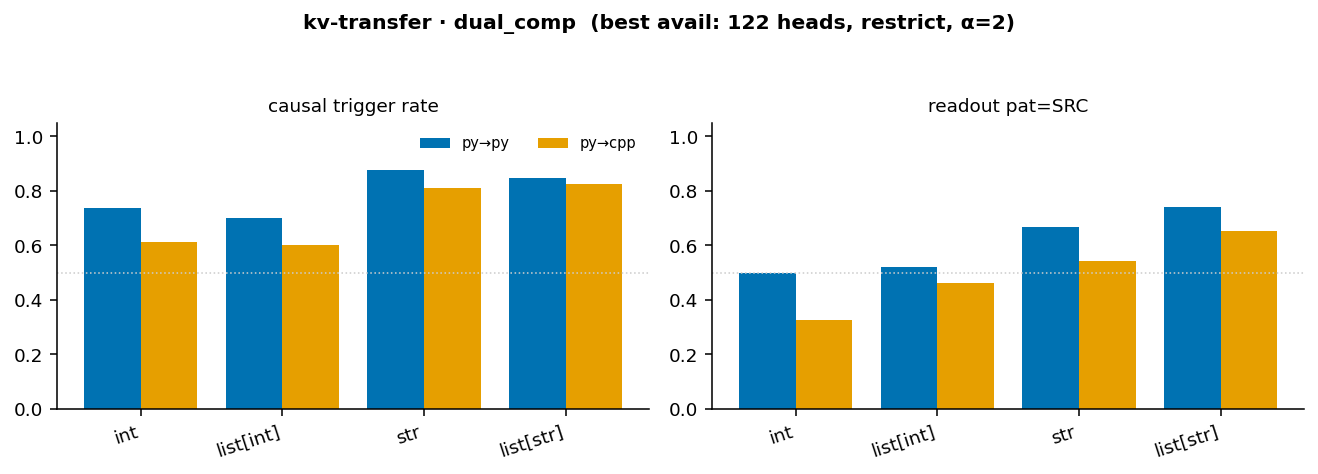
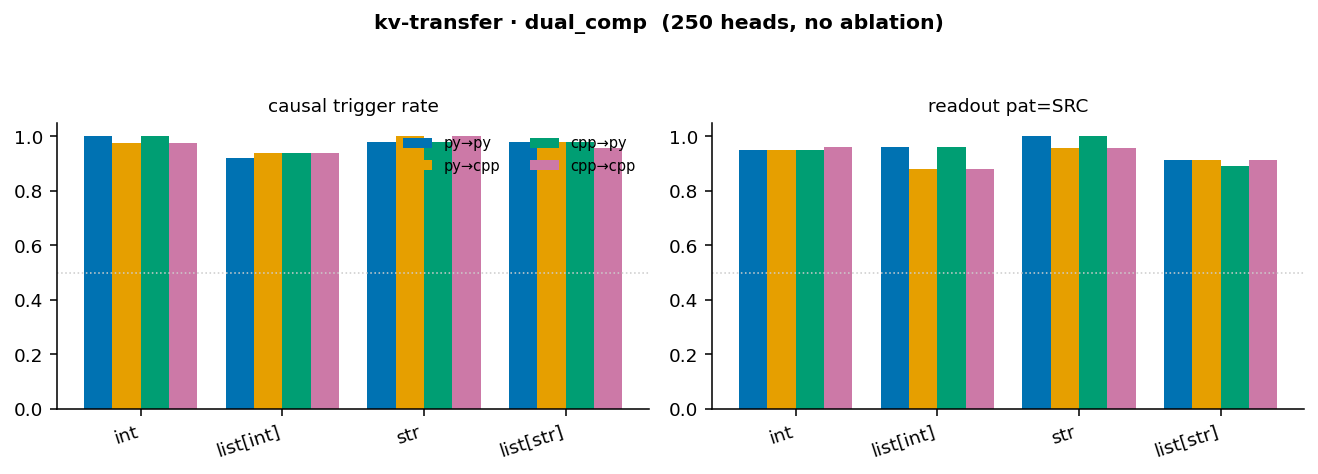
report: DIFF eval @250 — dual_comp complete, all setups refreshed
kv dual_comp @250 (no ablation) is complete and near-perfect (0.97/0.94),
confirming ablation is unnecessary there too (parked question resolved).
Refresh TL;DR, §2.2 (q-filter @250 complete), §3.1 (dual_comp @250),
coverage matrix, next-steps; regenerate the dual_comp + q-filter axis
figures at 250. Persistent soft spot: q-filter list[int] cross-language.

diff --git a/agent_reports/claude/diff_eval_analysis.md b/agent_reports/claude/diff_eval_analysis.md
@@ -1,6 +1,6 @@
 # DIFF eval — setup & results reference (Qwen2.5-Coder-32B-Instruct)
 
-*Living reference for the DIFF-hypothesis evals. Last updated 2026-09-06. All rates recomputed from
+*Living reference for the DIFF-hypothesis evals. Last updated 2026-09-08. All rates recomputed from
 per-instance `results.json` (not `meta.json`), so in-progress runs are included. `n` = instances with
 an oracle verdict. HTML span boxes render best in the VS Code markdown preview.*
 
@@ -22,9 +22,10 @@ Each mechanism has **two data templates** (§2, §3).
 
 - **q-transfer (query⇒progress) is strong**: `multi_pred` ~0.94 causal / ~0.89 readout at α=2, with
   **gaze shift ≈1.00** vs a ~0.01 baseline. `filter` is weaker and α-critical.
-- **kv-transfer (k/v⇒goal) with the top-250 goal heads is near-perfect**: `multi_pred` var_eq hits
-  **causal ~0.99 / readout ~0.96 across all 4 datatypes × 4 language directions**, and **ablation is
-  unnecessary** (`off` ≈ `restrict`). 122→250 lifts causal 0.84→0.99, readout 0.51→0.96 (§3.2).
+- **kv-transfer (k/v⇒goal) with the top-250 goal heads is near-perfect — for BOTH templates**:
+  `multi_pred` var_eq **0.99 / 0.96** and `dual_comp` **0.97 / 0.94**, across all 4 datatypes × 4
+  language directions, and **ablation is unnecessary** (`off` ≈ `restrict` on both). 122→250 lifts
+  multi_pred causal 0.84→0.99 / readout 0.51→0.96 and dual_comp 0.75→0.97 / 0.55→0.94 (§3).
 - **Standard config going forward:** patch = readout = **top-250 goal heads**, `ablate=off`, α=2,
   var_eq (kv multi_pred), all 4 langs.
 
@@ -154,15 +155,16 @@ the query for the remaining sub-task.
 </td>
 </tr></table>
 
-**Results — best available (122 heads, α=2, `targeted` postfix; n≈128):** overall **causal 0.72**,
-pat=SRC 0.78, gaze_shift ~0.97.
+**Results — 250 heads, α=2, `targeted` postfix, all 4 langs (complete, n=32/config):** overall
+**causal 0.78**, pat=SRC 0.76. (122/α=2 baseline was causal 0.72.)
 
 ![axes](figures/axis_q_filter.png)
 
-**What helped / hurt:** α=2 is **essential** here — causal 0.41→0.72 vs α=1. Datatype dominates:
-`str`/`list[str]` reach 0.82–0.87, but **`list[int]` is the weak spot (0.48)**. The 250-head run
-(list[int] only, done) lifts `list[int]` py→py 0.50→0.78 but **py→cpp stays ~0.44** — cross-language
-into C++ is the lone soft spot for the composed filter. Only the `targeted` postfix has been run.
+**What helped / hurt:** α=2 is **essential** here — causal 0.41→0.72 vs α=1 (at 122). `str`/`list[str]`
+are strong (~0.8+), but **`list[int]` is the persistent weak spot, specifically cross-language into
+C++**: py→cpp **0.44**, cpp→py **0.59**, cpp→cpp **0.62** (same-language py→py is fine). 250 heads did
+**not** rescue the composed-filter `list[int]` cross-lang case — the lone soft spot in the whole study.
+Only the `targeted` postfix has been run.
 
 ---
 
@@ -205,14 +207,16 @@ Two distinct tasks that share a common prerequisite (both prefill the same "prog
 </tr></table>
 <span style="font-size:82%;color:#888">Orange = task-description span whose K,V are transplanted · salmon = pivot (<code>return</code>). Same prefilled progress on both sides.</span>
 
-**Results — best available (122 heads, restrict, α=2):** overall **causal 0.75**, pat=SRC 0.55.
+**Results — 250 heads (patch+readout), NO ablation, all 4 langs (complete, n=896):** overall
+**causal 0.97**, **pat=SRC 0.94**. *(At 122 heads/restrict it was only causal 0.75 / pat=SRC 0.55.)*
 
 ![axes](figures/axis_kv_dualcomp.png)
 
-**What helped / hurt:** `restrict` ≈ `zero` (0.75 vs 0.74) — ablation strategy is a wash. Datatype is
-the big axis: `str`/`list[str]` 0.84, but `int`/`list[int]` only 0.65–0.68. py→py (0.79) > py→cpp
-(0.71). **The causal≫readout gap is largest here** (causal 0.75 vs pat=SRC 0.55). *250-head + all-lang
-run is queued (`..._top250_remaining.json`) — expected to close the gap as it did for multi_pred.*
+**What helped:** the top-250 patch+readout set (as for multi_pred) — 122→250 lifts causal 0.75→0.97 and
+**closes the causal≫readout gap** (0.55→0.94). **Ablation is unnecessary here too**: this is the
+`abl-off` run and it matches the multi_pred no-abl≈restrict finding. Only remaining softness:
+`list[int]` (~0.92–0.94 causal). *(This is the confirmation of the dual_comp @250 ablation-necessity
+question — resolved: no ablation needed.)*
 
 ### 3.2 multi_pred — divergent frontier (`MultiPredicateInstance`)  ⭐
 
@@ -275,20 +279,23 @@ vs `restrict` = 0.99/0.96 (identical). See the cross-cutting figure below.
 Every result to date is one of py→py, py→cpp, cpp→py, cpp→cpp — but the **250-head** runs are the only
 ones with the two `cpp→*` directions (kv multi_pred has all four; 122-head runs are py→{py,cpp} only).
 
-| mechanism / template | best config on disk | langs | status |
-|---|---|---|---|
-| q / multi_pred | 122, α=2 | py→py, py→cpp | ✓ (250 pending) |
-| q / filter | 122, α=2, targeted | py→py, py→cpp | ~ (`list[int]`@250 done; str/list[str]@250 queued; `return` postfix ✗) |
-| kv / dual_comp | 122, restrict, α=2 | py→py, py→cpp | ~ (250 + cpp→* queued) |
-| kv / multi_pred | **250, var_eq, restrict/off** | **all 4** | ✓ complete, near-perfect |
+All 250-head runs cover **all four language directions** (py→py, py→cpp, cpp→py, cpp→cpp).
 
-**Queued** (`job_list/diff_eval/qwen32b_coder_diff_top250_remaining.json`, patch+readout=250, all 4
-langs, n=128): kv dual_comp (`abl-off`), q multi_pred, q filter (str, list[str]).
+| mechanism / template | best config (250, all 4 langs) | causal / pat=SRC | status |
+|---|---|---|---|
+| kv / multi_pred | var_eq, off ≈ restrict | **0.99 / 0.96** | ✓ complete (16 cfg) |
+| kv / dual_comp | no ablation | **0.97 / 0.94** | ✓ complete (16 cfg) |
+| q / multi_pred | α=2 | ~0.92 / 0.83 | ~ filling (≈9/16; oracle-interrupted, rerunning) |
+| q / filter | α=2, targeted | 0.78 / 0.76 | ✓ complete (12 cfg); `list[int]` cross-lang weak |
 
 **Next / open:**
-1. Land the queued 250 runs → confirm dual_comp closes the causal≫readout gap and off≈restrict there too.
-2. Does 250 rescue **q-filter `list[int]` py→cpp** (still ~0.44)?
+1. **Finish q multi_pred @250** (rerun in flight after the oracle drop) → then all four setups are complete at 250.
+2. **q-filter `list[int]` cross-language** (py→cpp 0.44, cpp→py 0.59, cpp→cpp 0.62) — the one persistent
+   weakness; 250 heads did not fix it. Decide whether to investigate or scope out.
 3. q-filter `return` postfix variant (only `targeted` exists).
 4. Retire the stale `kv_transfer/dual_comp/ph-goal__abl-35-50__a1__pad` (n=2 leftover).
 
-*Not needed:* ablation runs (off≈restrict at 250); α sweeps beyond α=2; more `zero`-ablation.
+**Resolved:** ablation is unnecessary at 250 for **both** kv setups (multi_pred: off≈restrict; dual_comp:
+`abl-off` = 0.97/0.94). The causal≫readout gap is closed at 250 everywhere except q-filter list[int]-cross-lang.
+
+*Not needed:* ablation runs; α sweeps beyond α=2; more `zero`-ablation.
